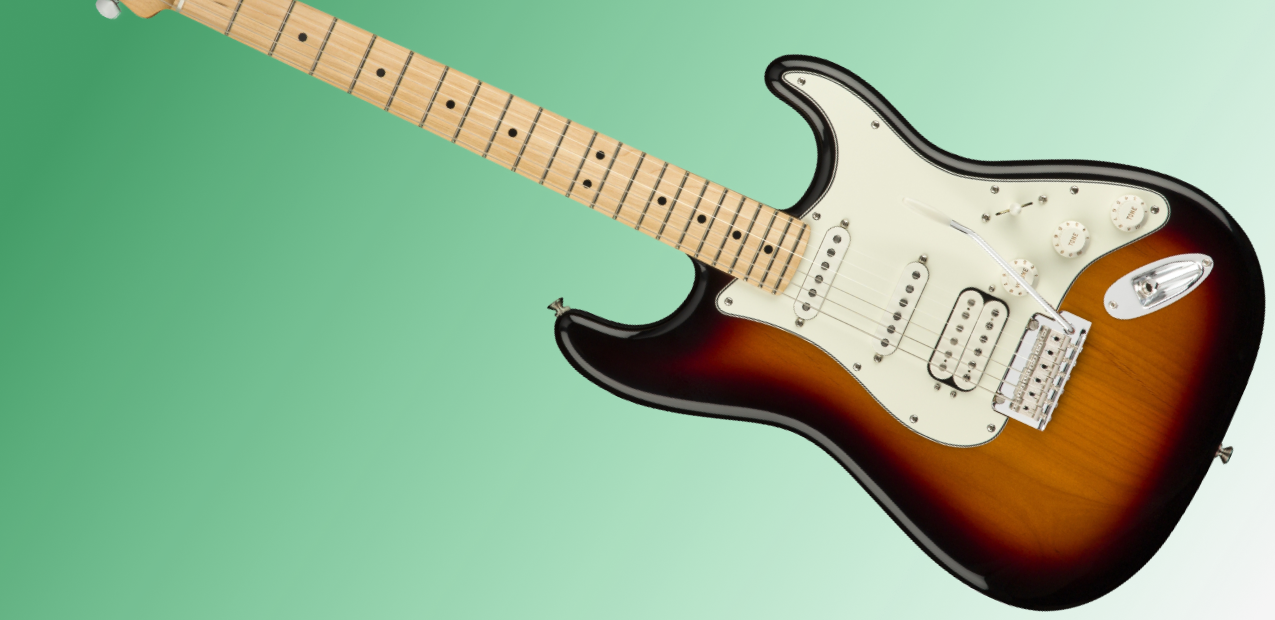
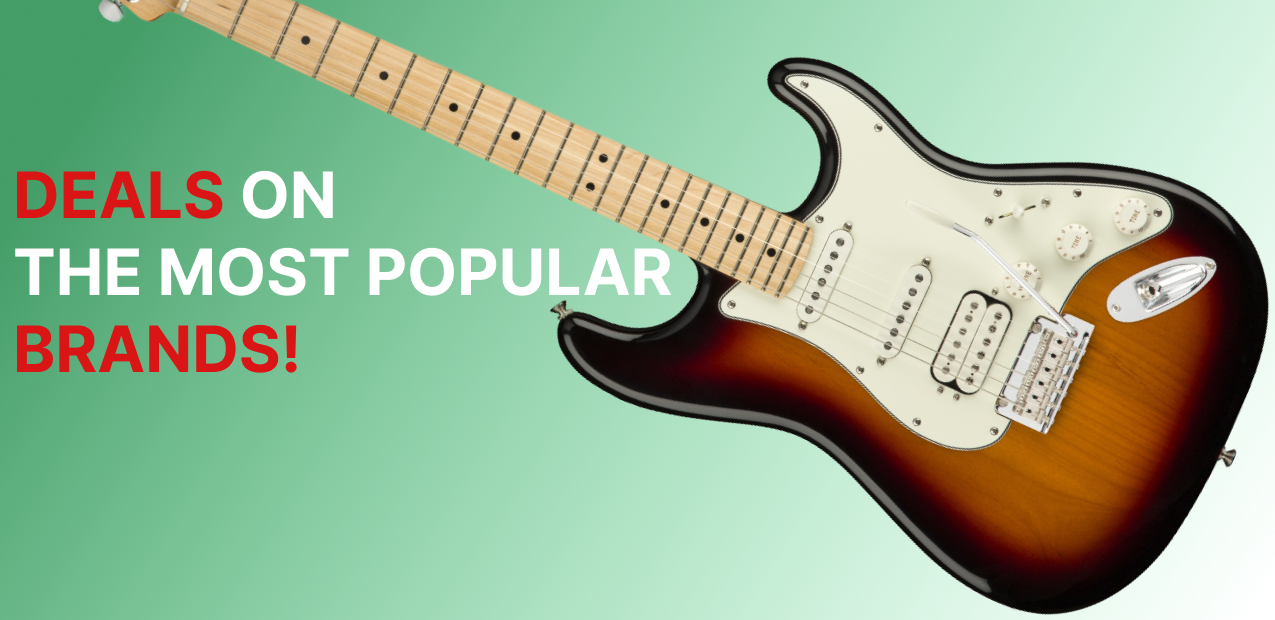
added guitar hero image

diff --git a/src/pages/Guitars.js b/src/pages/Guitars.js
@@ -1,15 +1,14 @@
 import styled from 'styled-components'
 import { GuitarList, Filters } from '../components'
-// import logo from '../images/tfg.png'
+import logo from '../images/tfg.png'
 
 const Guitars = () => {
   return (
     <main>
-      <div className="guitar_hero">
-        <p>asdfasdfasdf</p>
-      </div>
+      
       
       <Wrapper className='page-setting'>
+        <img src={logo} alt="fender guitar" />
         <div className="properties">
           <Filters />
             <div>
@@ -22,6 +21,7 @@ const Guitars = () => {
 }
 
 const Wrapper = styled.div`
+
   .properties {
     display: grid;
     gap: 3rem 1.5rem;
@@ -29,7 +29,12 @@ const Wrapper = styled.div`
   }
   .guitar_hero {
     text-align: center;
-  
+    width: 1440px;
+    max-width: 100%; 
+  }
+  img {
+    width: 100%;
+    height: auto;
   }
   
 
